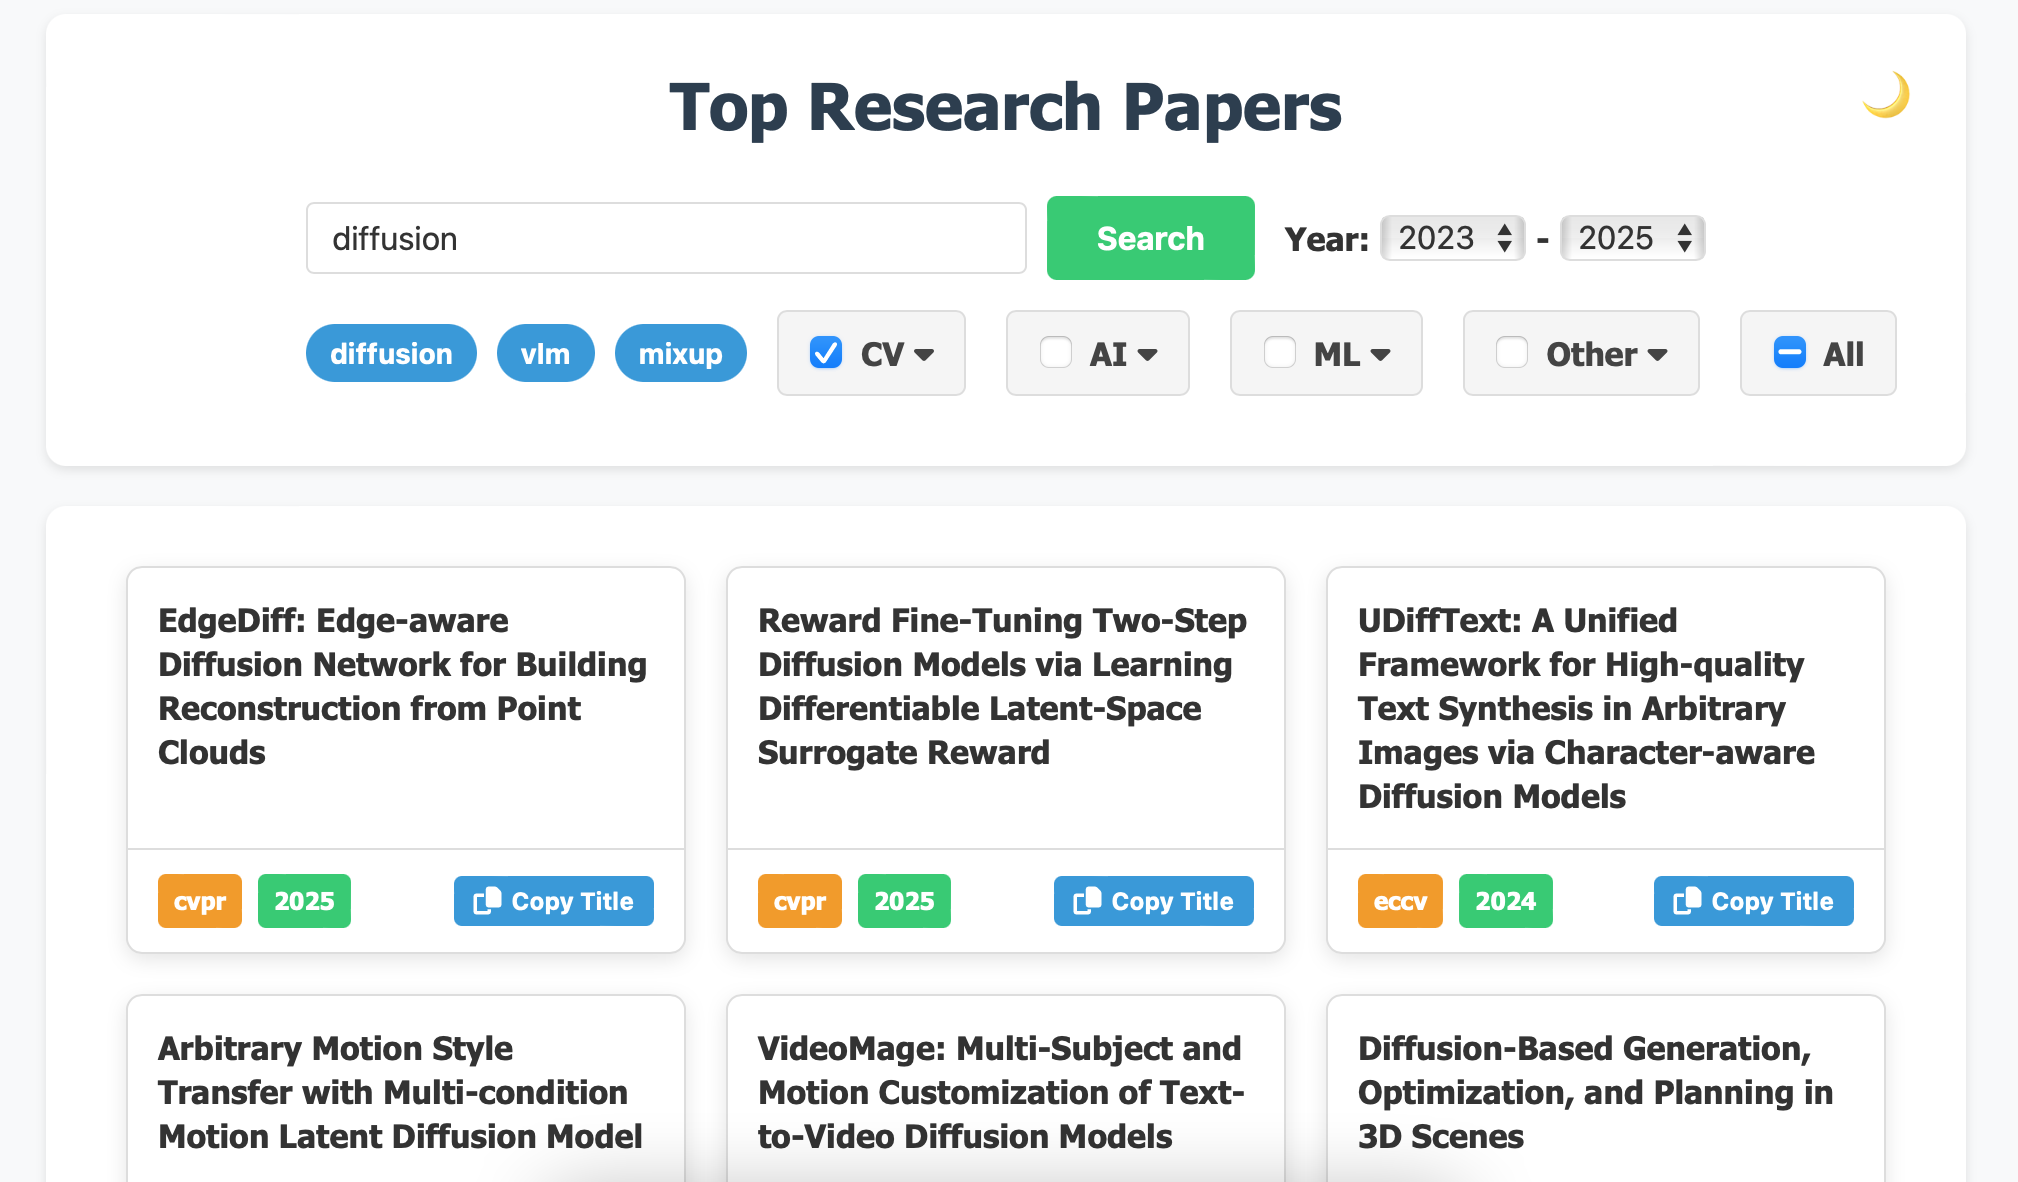
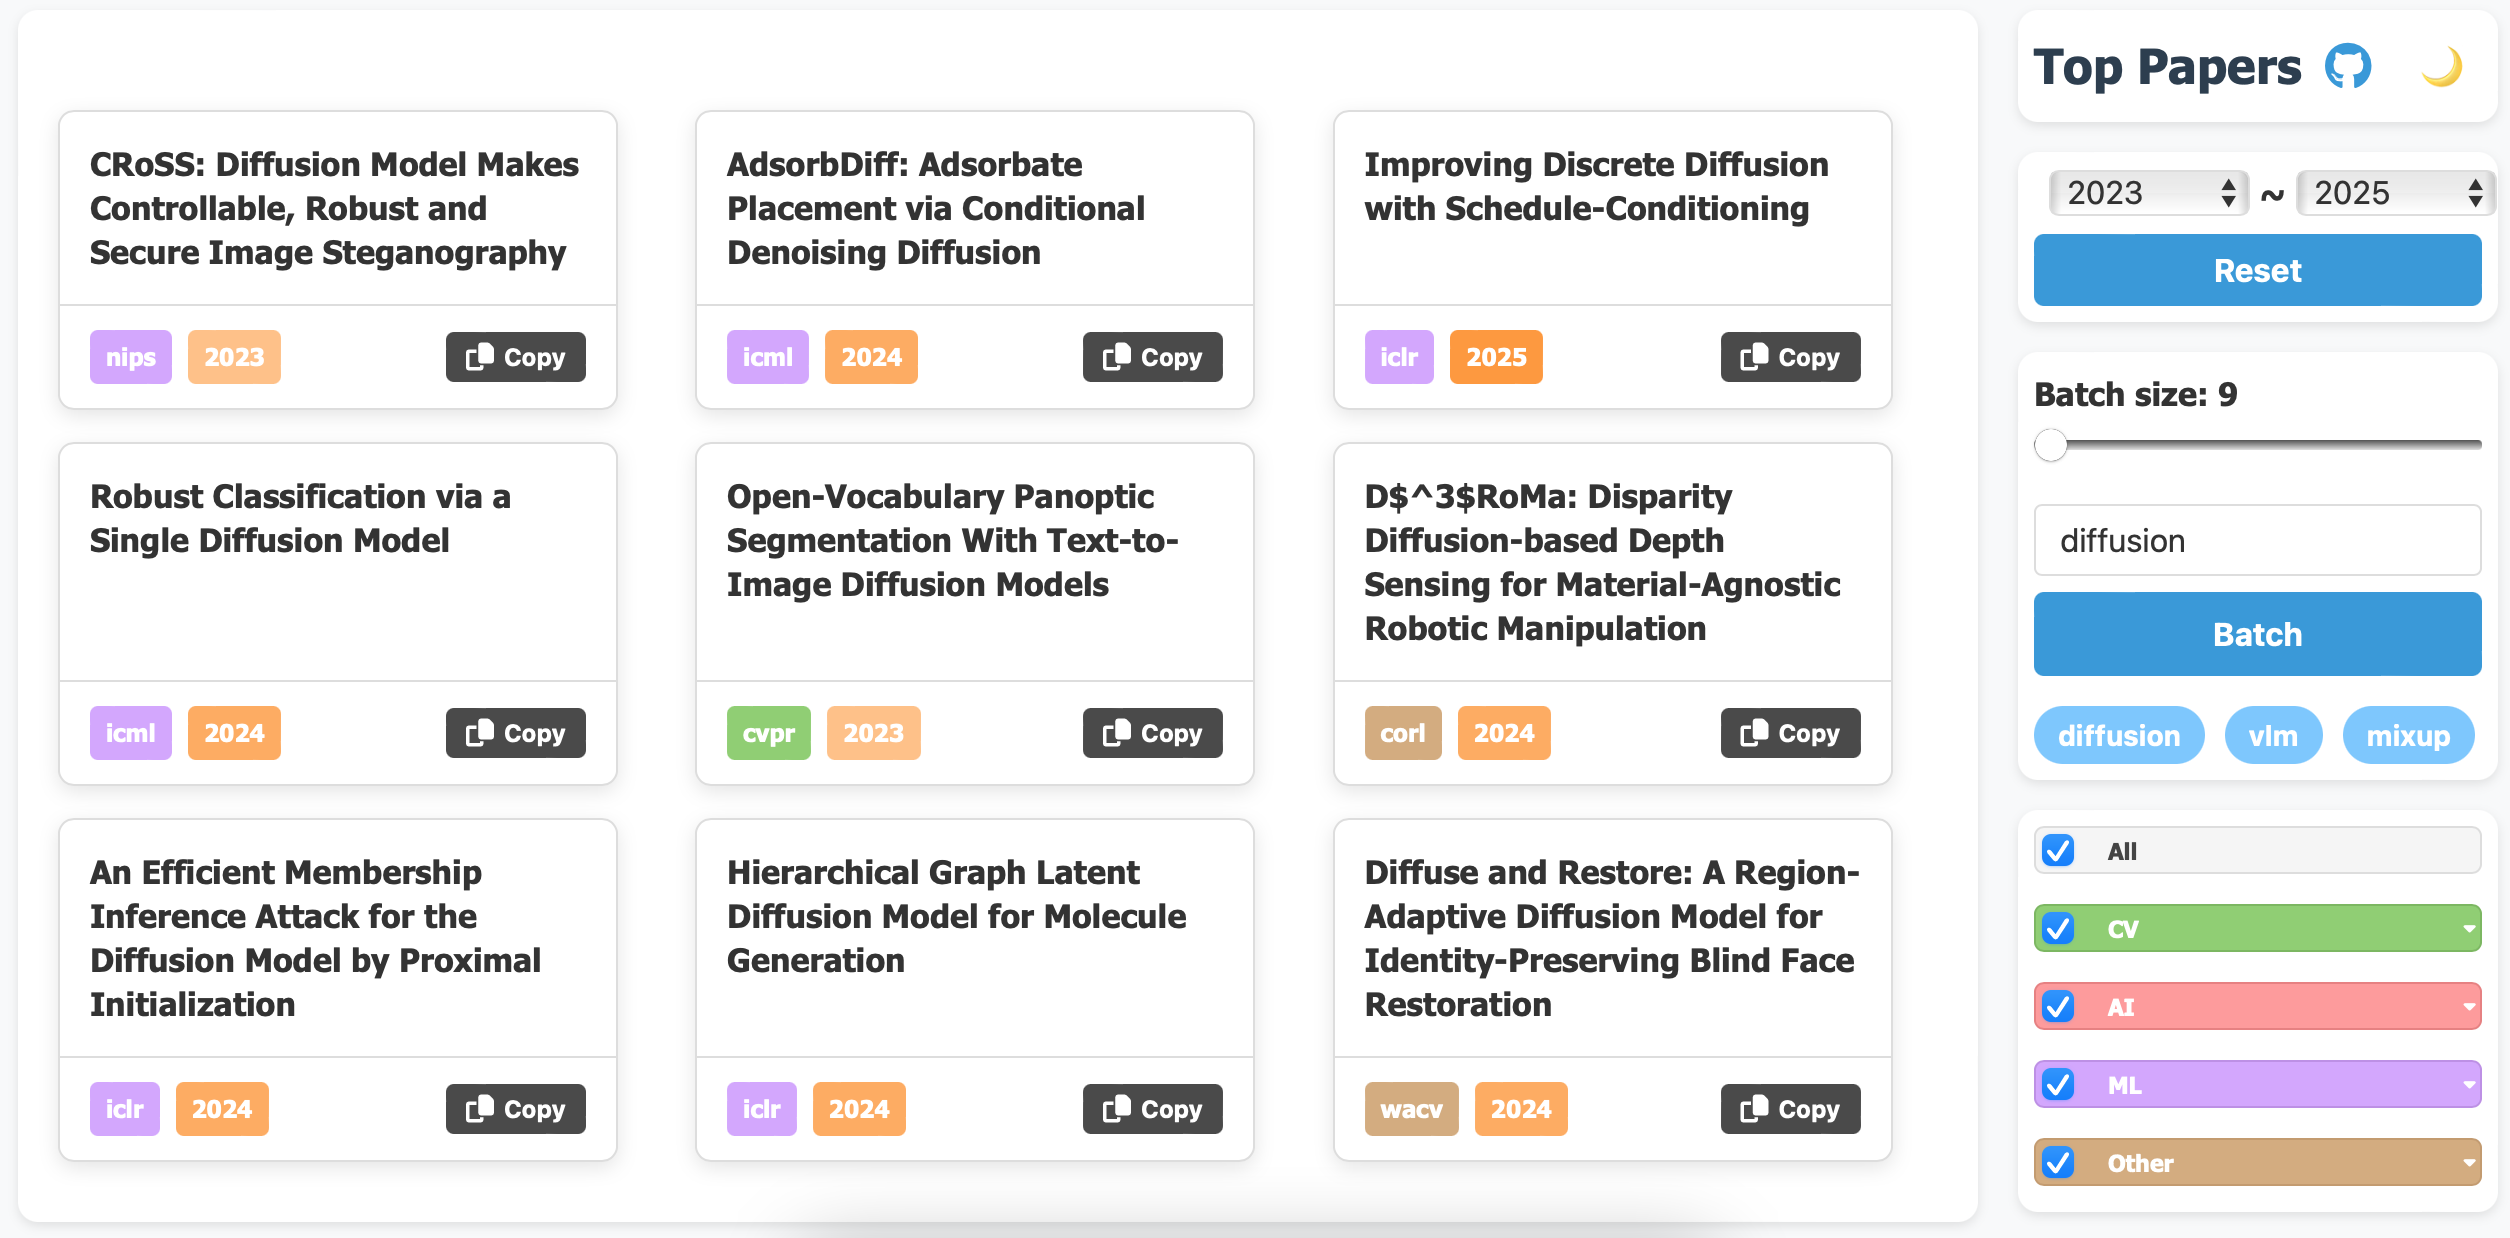
a

diff --git a/README.md b/README.md
@@ -1,41 +1,37 @@
-# A Simple Tool to Search Papers from Top Conferences
+# Sample a Batch of Papers of Top Conferences
 
 ![image](image.png)
 
+### Usage
+
+https://tian-2024.github.io/top-papers/
+
+steps:
+1. input a topic, e.g. "diffusion"
+2. click "Batch"
+3. see 9 papers
+4. click "Batch" again to sample another batch
+
 Feature:
 - [x] search papers by topic
-- [x] roll 15 papers at a time
+- [x] sample 9 to 18 papers at a time
 - [x] filter papers by conference, field, year
 - [x] dark mode to protect your eyes
 - [x] support mobile
 
 Supported conferences:
-**CV**:
-1. CVPR
-2. ICCV
-3. ECCV
-
-**AI:**
-1. AAAI
-2. IJCAI
-3. ACMMM
-
-**ML:**
-1. NeurIPS
-2. ICML
-3. ICLR
-
-**Other:**
-1. EMNLP
-2. CORL
-3. SIGGRAPH
-4. SIGGRAPH ASIA
-5. AISTATS
-6. COLM
+| Field | Conferences |
+|-------|-------------|
+| **CV** | CVPR, ICCV, ECCV |
+| **AI** | AAAI, IJCAI, ACMMM |
+| **ML** | NeurIPS, ICML, ICLR |
+| **Other** | EMNLP, CORL, SIGGRAPH, SIGGRAPH ASIA, AISTATS, COLM |
 
 ### Note
 
-Because github pages only support for static website, more complex features may be hard to implement, But I think the basic search function for related topics is already quite useful.
+Because github pages only support for static website, more complex features may be hard to implement.
+
+But I think the basic search function for related topics is already quite useful.
 
 ### Acknowledgement
 
